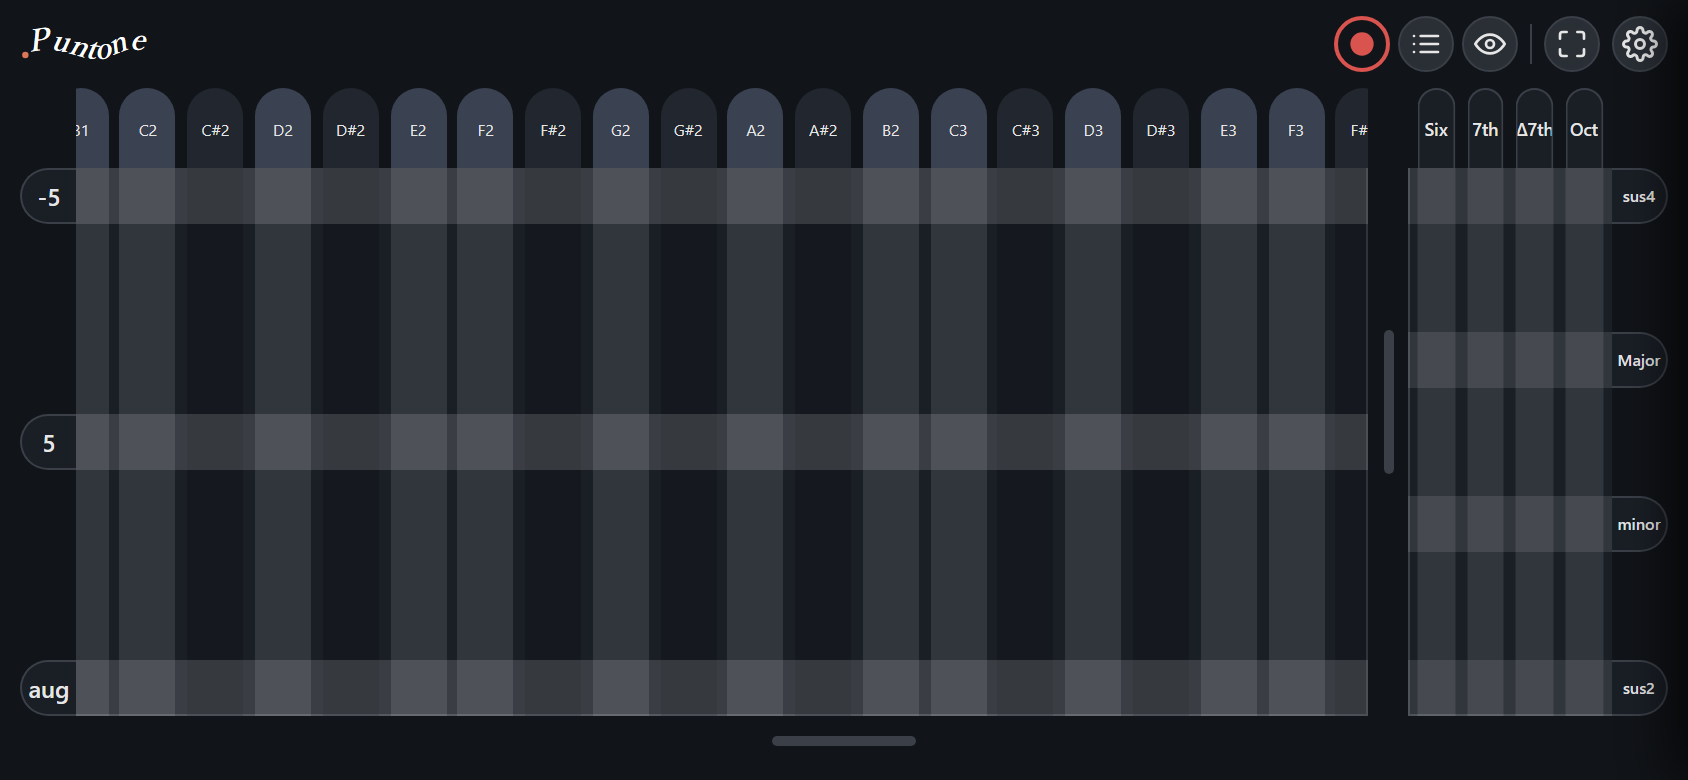
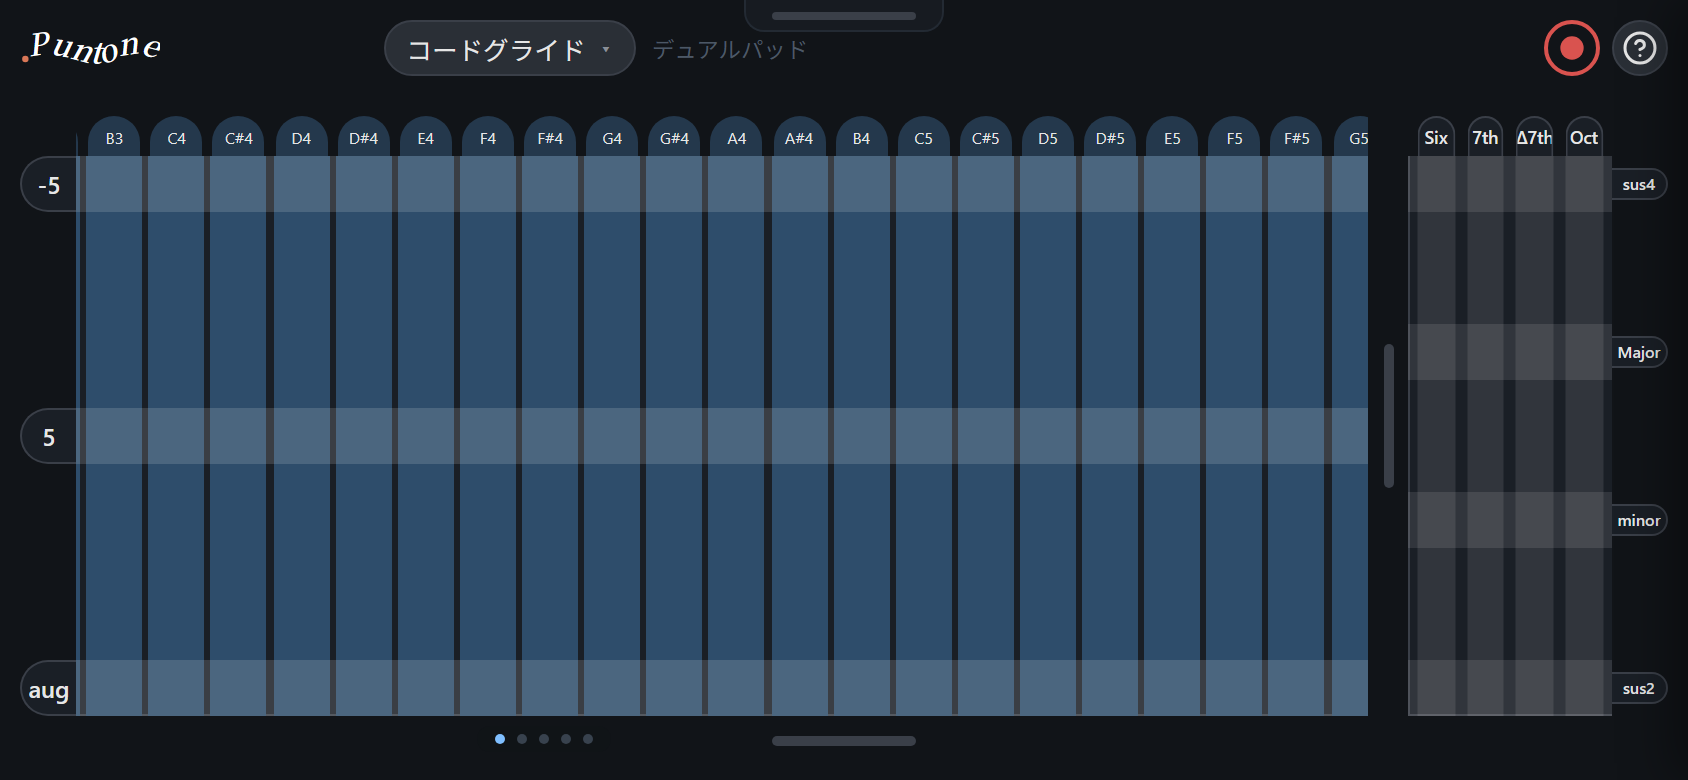
操作ガイドを現行UIに全面改訂、ノートピッカー・音律ミックス等の章追加とスクショ撮り直し

diff --git a/articles/puntone-operation-guide.md b/articles/puntone-operation-guide.md
@@ -14,37 +14,52 @@ published: false
 
 👉 [アプリを開く](https://puntone-synth.pages.dev/)
 
-発音モードは3つあります。初めて開いたときは「コードグライド」で始まります。
+発音モードは4つあります。初めて開いたときは「コードグライド」で始まります。
 
 | モード | ざっくり言うと |
 |---|---|
 | **コードグライド**（おすすめ） | 2枚のパッドをなぞって、最大4音のコードをグライドさせながら演奏 |
 | **デュアルパッド** | コードグライドの兄弟。音程が半音単位でスパッと切り替わる（切り替わり速度は調整可能） |
+| **ノートグライド** | 2枚のパッドが対等。1枚ごとに「横の音 × 縦の音」の2音、両手で最大4音を自由に組む |
 | **鍵盤パッド** | 鍵盤＋自由な音程のパッド。テルミンの感覚にいちばん近い |
-
-## 1. 画面の見かた
-
-画面右上に共通のボタンが並んでいます。
-
-- **●**（録音）: 押すと録音開始、もう一度押すと停止
-- **一覧**: 録音テイクの一覧パネルを開く
-- **目のアイコン**: 録音したテイクや取り込んだ音源の再生中に、音に合わせて背景が光る演出のON/OFF
-- **全画面**: 全画面表示にして横向きに固定します（Androidのみ。iPhoneは非対応）
-- **⚙**（設定）: 設定パネルを開く。発音モードの切り替えもここ
-
-発音モードの切り替えは **⚙ 設定 → 上部のモードボタン** です。設定値はすべて自動保存され、次回開いたときも引き継がれます。
-
-![設定パネル](/images/puntone-operation-guide/settings.png)
 
 :::message
 スマホでは**横向き**での演奏を推奨しています。パッド系のモードを縦持ちで開くと回転の案内が表示されます。
 :::
 
-## 2. コードグライド（おすすめ）
+## 1. 画面の見かた
 
-左右2枚のパッドをなぞって演奏する、Puntoneの看板モードです。
+画面はシンプルな上部バーと、その下の演奏面だけです。
 
 ![コードグライド](/images/puntone-operation-guide/chord-glide.png)
+
+上部バーに並ぶものは次のとおりです。
+
+- **ロゴ**（左）
+- **モードチップ**（中央）: 現在のモード名。ここが発音モードの切り替え口です
+- **Stop**: 音が鳴っている間だけ現れます（押すか、スペースキーで停止）
+- **●**（録音）: 押すと録音開始、もう一度押すと停止
+- **？**: ガイド・応援・リンク類のパネルを開く
+
+演奏に関わる設定は、上部バーの下端にある**つまみ**から開きます。つまみをタップするか、下方向にドラッグすると**演奏設定パネル**が下りてきます。
+
+設定値はすべて自動保存され、次回開いたときも引き継がれます。
+
+## 2. モードを選ぶ
+
+モードチップを**タップ**すると一覧が開きます。チップを**左右にスワイプ**すると、隣のモードへ直接移れます（チップの両脇に、隣が何かが薄く表示されています）。
+
+![モード一覧](/images/puntone-operation-guide/mode-list.png)
+
+一覧のいちばん下の「**その他**」を選ぶと、実験中のモードを含む全モードのランチャーが開きます。
+
+![その他のモード](/images/puntone-operation-guide/launcher.png)
+
+実験中のモードは **コードグラフ / 鍵盤 / 鍵盤ロール / ボール投げ / バイオリン / ピアノ** です。気に入ったものがあれば[フィードバック](https://forms.gle/3UNMJufgTk43Fhip7)で教えてください。
+
+## 3. コードグライド（おすすめ）
+
+左右2枚のパッドをなぞって演奏する、Puntoneの看板モードです。
 
 ### 左パッド — ルート音と5度
 
@@ -66,7 +81,7 @@ published: false
 
 ### 音域の移動（パン・ズーム）
 
-パッド上端の、音名ラベルが並んでいる段は「つかんで動かす」ための場所です。ここを横にドラッグすると、音を出さずに音域だけを左右にスライドできます。音域は下は **A0**（ピアノの最低音）まであります。同じ段に2本指を乗せてピンチするとズームします（設定パネルの「ズーム」スライダーでも調整可能）。
+パッド上端の、音名ラベルが並んでいる段は「つかんで動かす」ための場所です。ここを横にドラッグすると、音を出さずに音域だけを左右にスライドできます。音域は下は **A0**（ピアノの最低音）まであります。同じ段に2本指を乗せてピンチするとズームします。
 
 ![音域を動かす（パン・ズーム）](/images/puntone-operation-guide/pad-pan.png)
 
@@ -76,7 +91,7 @@ published: false
 
 パッドの高さは下端のハンドル、左右パッドの幅の比率はパッド間のハンドルをドラッグして調整できます。
 
-## 3. デュアルパッド
+## 4. デュアルパッド
 
 コードグライドの兄弟モードです。パッドの構成・パン・ズーム・レイアウト調整はコードグライドと共通で、違いは次の2点です。
 
@@ -87,7 +102,21 @@ published: false
 
 音程を正確に取りたいときはこちら、音のつながりを滑らかに歌わせたいときはコードグライド、という使い分けです。
 
-## 4. 鍵盤パッド
+## 5. ノートグライド
+
+コードグライドの姉妹モードですが、考え方が違います。**2枚のパッドが対等**で、コードの理論に縛られずに音を組めます。
+
+![ノートグライド](/images/puntone-operation-guide/note-glide.png)
+
+- 各パッドは「**横の音名 × 縦の音名**」のXYグリッドです。1枚のパッドに触れると、その位置の**横の音と縦の音の2音**が鳴ります
+- 両パッドを同時に触れば**最大4音**。コードグライドと違い、**どちらか片方だけでも鳴ります**（ルートに依存しないため）
+- 音域は縦横とも **A0〜C8** の88音
+- バーの上では音がぴったり固定され、バーとバーのすき間では連続的にグライドします（コードグライドの左パッドと同じ規則）
+- パン・ズームは上の音名ラベル行で横方向、左の音名ラベル列で縦方向。2本指を乗せるとその軸のピンチズームになります
+
+コードグライドが「コードを弾く」道具だとすると、ノートグライドは「好きな音を4つ選んで重ねる」道具です。
+
+## 6. 鍵盤パッド
 
 鍵盤と自由音程パッドの組み合わせ。テルミンの「空間で音程を取る」感覚にいちばん近いモードです。
 
@@ -95,26 +124,51 @@ published: false
 
 ### 鍵盤（上段）
 
-- 音域は **A4〜E6** の20鍵、単音です
-- **マウス／タッチ／PCキーボード**のどれでも弾けます（各鍵に対応するPCキーが表示されています）
+- 鍵盤は **A0〜C8** の88鍵を持っていて、そこから一部を切り出して表示しています。上のラベル帯をドラッグ／ピンチすると表示範囲を移動・拡大縮小できます
+- **マウス／タッチ／PCキーボード**のどれでも弾けます。PCキーが割り当たっているのは **A4〜E6** の範囲です
 - 押している間だけでなく、**指を離しても音は鳴り続けます**。止めるには **Stopボタン** か **スペースキー**
 - 次の音を弾くと、今の音から滑らかに音程が変化します（ポルタメント）
 
 ### ピッチパッド（下段）
 
-- 横方向が音程（鍵盤と同じ範囲を**無段階**で）、縦方向が音量（上ほど大きい）です
+- 横方向が音程（鍵盤の表示範囲と同じ範囲を**無段階**で）、縦方向が音量（上端が最大、下端が無音）です
 - マウスはパッドにカーソルが乗っている間、タッチは触れている間だけ鳴ります
 - 鍵盤とは独立した音なので、鍵盤の音に**重ねて**鳴らせます
 
 ### 協和度グラフ
 
-鍵盤を押している間、画面上部に鍵盤の音を基準とした協和度のグラフが表示され、パッドで鳴らしている音との音程差が白い点で示されます。点が山の上に来る位置がよく協和する音程です。ハモリの練習にどうぞ。
+鍵盤を押している間、ピッチパッドの上に鍵盤の音を基準とした協和度のグラフが重なって表示され、パッドで鳴らしている音との音程差が点で示されます。点が山の上に来る位置がよく協和する音程です。ハモリの練習にどうぞ。
 
-## 5. 録音・重ね録り・共有
+## 7. 音色とノートピッカー
 
-録音は上部バーの録音ボタン ![録音](/images/puntone-operation-guide/btn-rec.png =26x) で開始し、もう一度押すと停止します（最大5分で自動停止）。録音したテイクは、一覧ボタン ![一覧](/images/puntone-operation-guide/btn-takes.png =26x) で開くパネルに並びます。
+音色は演奏設定パネルの音色バーで選びます。組み込みは **sin（サイン波）/ saw（のこぎり波）/ sq（矩形波）/ ずんだもん** の4種類です。
 
-![録音テイク一覧](/images/puntone-operation-guide/takes-panel.png)
+音色バーの下の**ペンのアイコン**を押すと、音色を自作する「**ノートピッカー**」が開きます。
+
+![ノートピッカー](/images/puntone-operation-guide/notepicker.png)
+
+- **①倍音パレット**: 倍音の混ざり方を面から選びます
+- **②FM合成パレット**: FM変調のかかり方を面から選びます
+- **③ミックス**: ①と②をどの比率で混ぜるかを決め、その場で試聴できます
+- 左上の音程欄で試聴する音の高さを変えられます
+
+作った音色は **a / b / c の3スロット**に保存できます。保存すると音色バーにボタンとして並び、そのまま演奏に使えます。音色バーでカスタム音色を選んだ状態でペンのアイコンを押すと、そのスロットが開いた状態でノートピッカーに戻ります。
+
+## 8. 音律ミックス
+
+デュアルパッド系のモード（コードグライド・デュアルパッド）では、演奏設定パネルに**音律ミックス**が出ます。
+
+使える音律は **平均律 / 純正律 / ピタゴラス音律 / 41平均律** の4つです。それぞれの行で、鳴らしたい度数（1〜8）を選べます。複数の音律を同時に有効にすると、パッド上にそれぞれの音律の音が別々の点として並び、混ぜて演奏できます。
+
+いつものドレミは平均律、ハモリの純度を確かめたいときは純正律、という使い分けができます。
+
+## 9. 録音・重ね録り・共有
+
+録音は上部バーの録音ボタン ![録音](/images/puntone-operation-guide/btn-rec.png =26x) で開始し、もう一度押すと停止します（最大5分で自動停止）。録音したテイクは、**演奏設定パネルの左側**に一覧で並びます。
+
+![録音テイク一覧](/images/puntone-operation-guide/takes-panel.png =400x)
+
+一覧は縦にスワイプして選びます。選んでいるテイクが白、その下に次のテイクが薄く見えています。
 
 テイクごとのボタンは次のとおりです。オレンジの点1つは「重ね録り」、2つは「重ね録り＋演奏単体テイクも保存」の意味です。
 
@@ -130,30 +184,47 @@ published: false
 | 共有 | OSの共有シート経由でLINEやメールへ（スマホなど対応環境でのみ表示。PCブラウザでは保存ボタンで代替） |
 | ![削除](/images/puntone-operation-guide/btn-delete.png =36x) | テイクを削除 |
 
-パネル右上の ![読み込み](/images/puntone-operation-guide/btn-import.png =90x) からは、手持ちの音声ファイルを取り込めます。取り込んだ音源もテイクと同じように再生・重ね録りに使えます。
+一覧の ![読み込み](/images/puntone-operation-guide/btn-import.png =90x) からは、手持ちの音声ファイルを取り込めます。取り込んだ音源もテイクと同じように再生・重ね録りに使えます。
 
 - 各テイクには種別ラベル（録音／重ね録り／ループ録り／読み込みトラック など）が付き、日時が同じでも見分けられます
 - 保存は最大10件（超過分は古い順に自動削除）。このブラウザだけに保存され、他の端末・他のブラウザとは同期しません
 - アプリを閉じても消えず、次に開いたときも一覧に残ります
 
-## 6. 設定
+### 設定の共有
 
-⚙ 設定パネルの項目です。モードによって表示される項目が変わります。
+**アドレスバーのURLが、そのまま設定の共有リンクになっています。** 音色やパッドの設定を変えた状態でURLをコピーして誰かに送れば、相手は同じ設定で開けます（相手の保存済み設定は上書きされず、その場限りで適用されます）。
+
+## 10. 演奏設定パネルの項目
+
+上部バー下端のつまみから開くパネルです。モードによって表示される項目が変わります。
+
+![演奏設定パネル](/images/puntone-operation-guide/quick-panel-full.png)
 
 | 項目 | 内容 | 表示されるモード |
 |---|---|---|
-| 音色 | サイン波／ずんだもん | すべて |
-| ズーム | パッドの拡大率（1.5〜16倍）。ピンチ操作とも連動 | コードグライド・デュアルパッド |
+| テイク一覧 | 録音テイクの再生・重ね録り・保存・削除 | すべて |
+| 音量バランス | ルート／5度／3度／7度の役割ごとの音量比 | コードグライド・デュアルパッド |
+| 音色 | sin ／ saw ／ sq ／ ずんだもん ／ 自作音色 a・b・c | すべて |
 | ポルタメント | 次の音へ移り変わる時間（0〜1000ms）。0で即切り替え | デュアルパッド・鍵盤パッド |
 | ディケイ | 鍵を弾いたあと、音量が-20dBまで減衰する時間（0.1〜30秒） | 鍵盤パッド |
+| リリース | 指を離してから音が消えるまでの時間 | パッド系モード |
+| 音律ミックス | 平均律／純正律／ピタゴラス音律／41平均律の混ぜ合わせ | コードグライド・デュアルパッド |
+| マイク音量 | マイクの入力レベルで演奏音量を制御する（ヘッドセット推奨） | すべて |
+| 👁 グロー | 再生中に音に合わせて背景が光る演出のON/OFF | すべて |
+| ⛶ 全画面 | 全画面表示にして横向きに固定します（Androidのみ。iPhoneは非対応） | すべて |
 
 :::message
 コードグライドにポルタメント設定がないのは、バーのすき間によるグライドが常に効いているためです。ディケイがパッド系モードにないのは、パッド系は触れている間鳴り続ける方式のためです。
 :::
 
-## 7. その他（アイデア）
+## 11. ガイド・応援・その他（？ボタン）
 
-設定パネルの「その他（アイデア）」からは、実験中のモード（鍵盤・鍵盤ロール・コードグラフ・コードドラッグ）も試せます。気に入ったものがあれば[フィードバック](https://forms.gle/3UNMJufgTk43Fhip7)で教えてください。
+上部バー右端の **？** ボタンで開くパネルです。
+
+![？パネル](/images/puntone-operation-guide/settings-panel.png)
+
+- **言語**: 日本語・English・Español・Português・Français・Deutsch・Bahasa Indonesia・简体中文・한국어・Русский・हिन्दी の11言語
+- 開発者を応援 / ご意見・ご要望 / 操作ガイド（この記事）/ X / プライバシーポリシー へのリンク
 
 ## 応援・フィードバック
 
